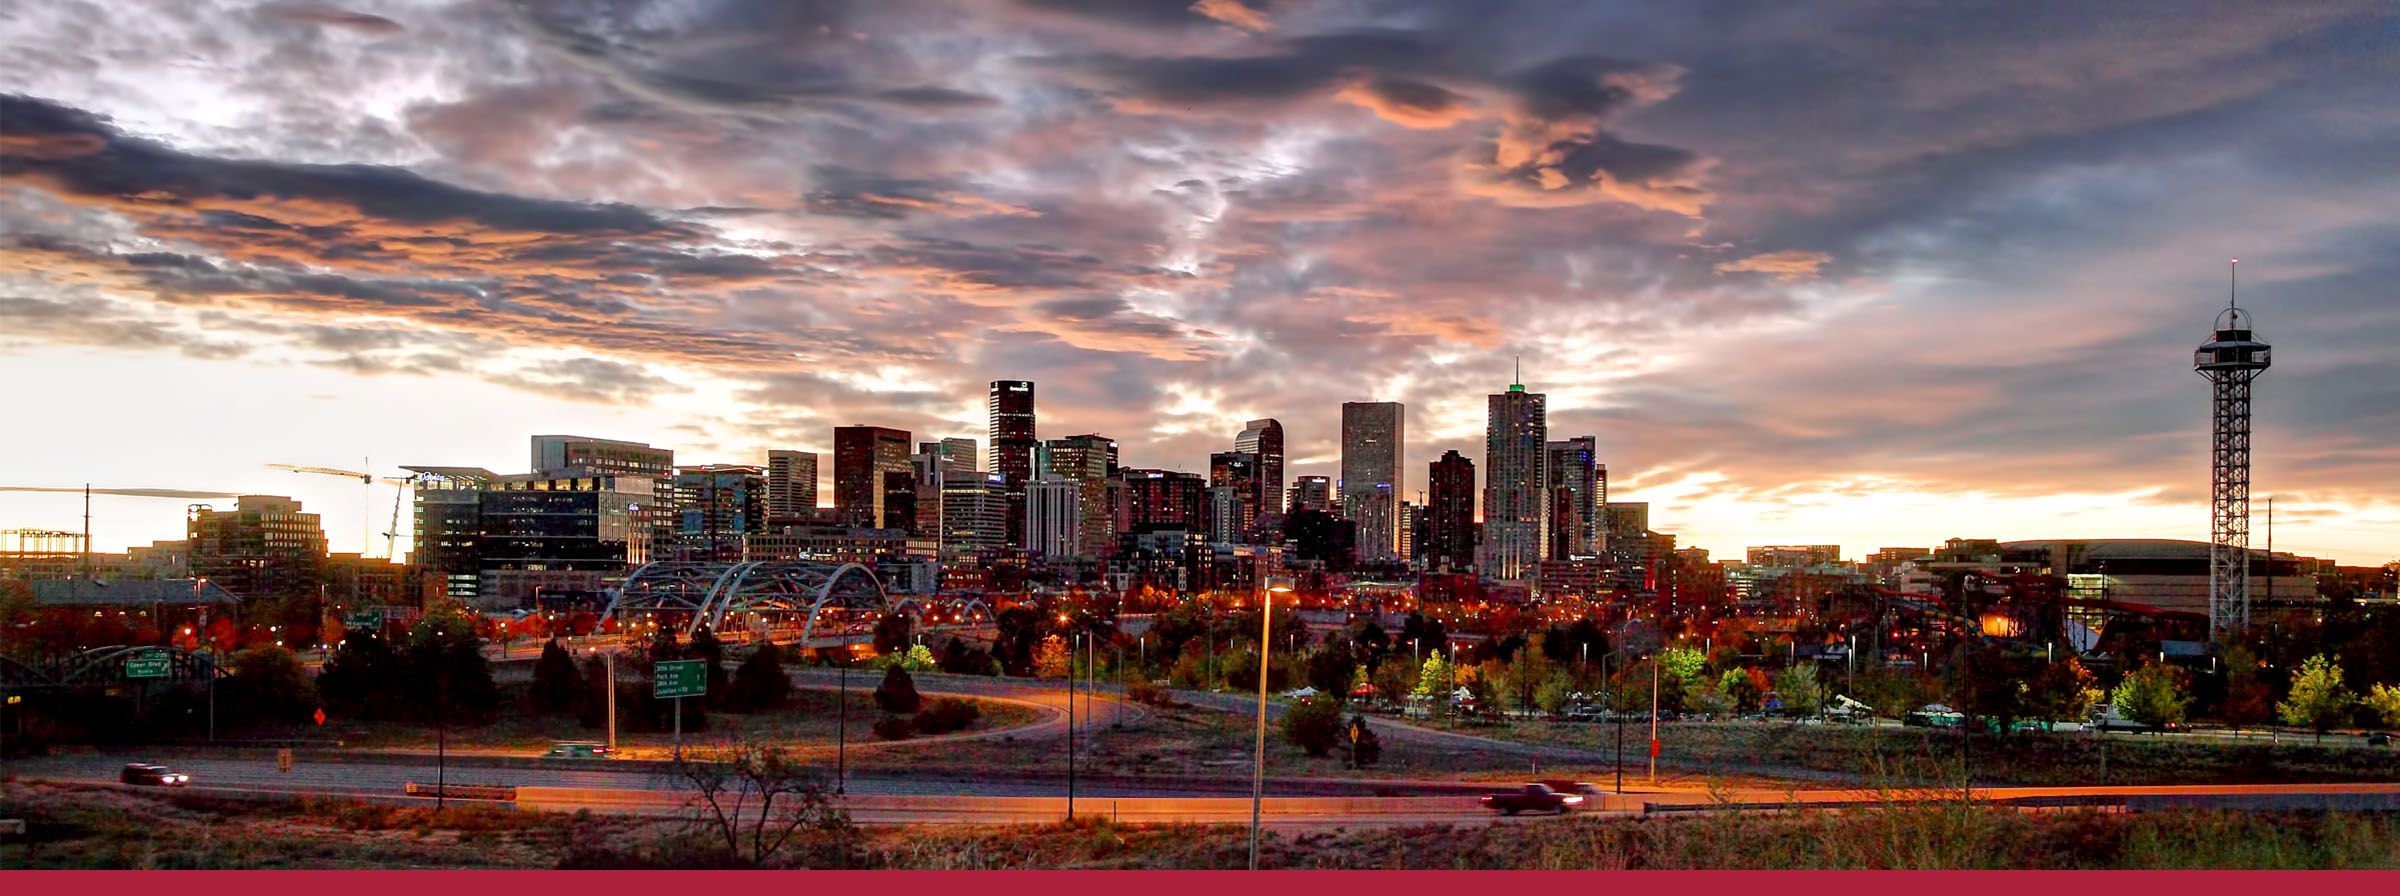
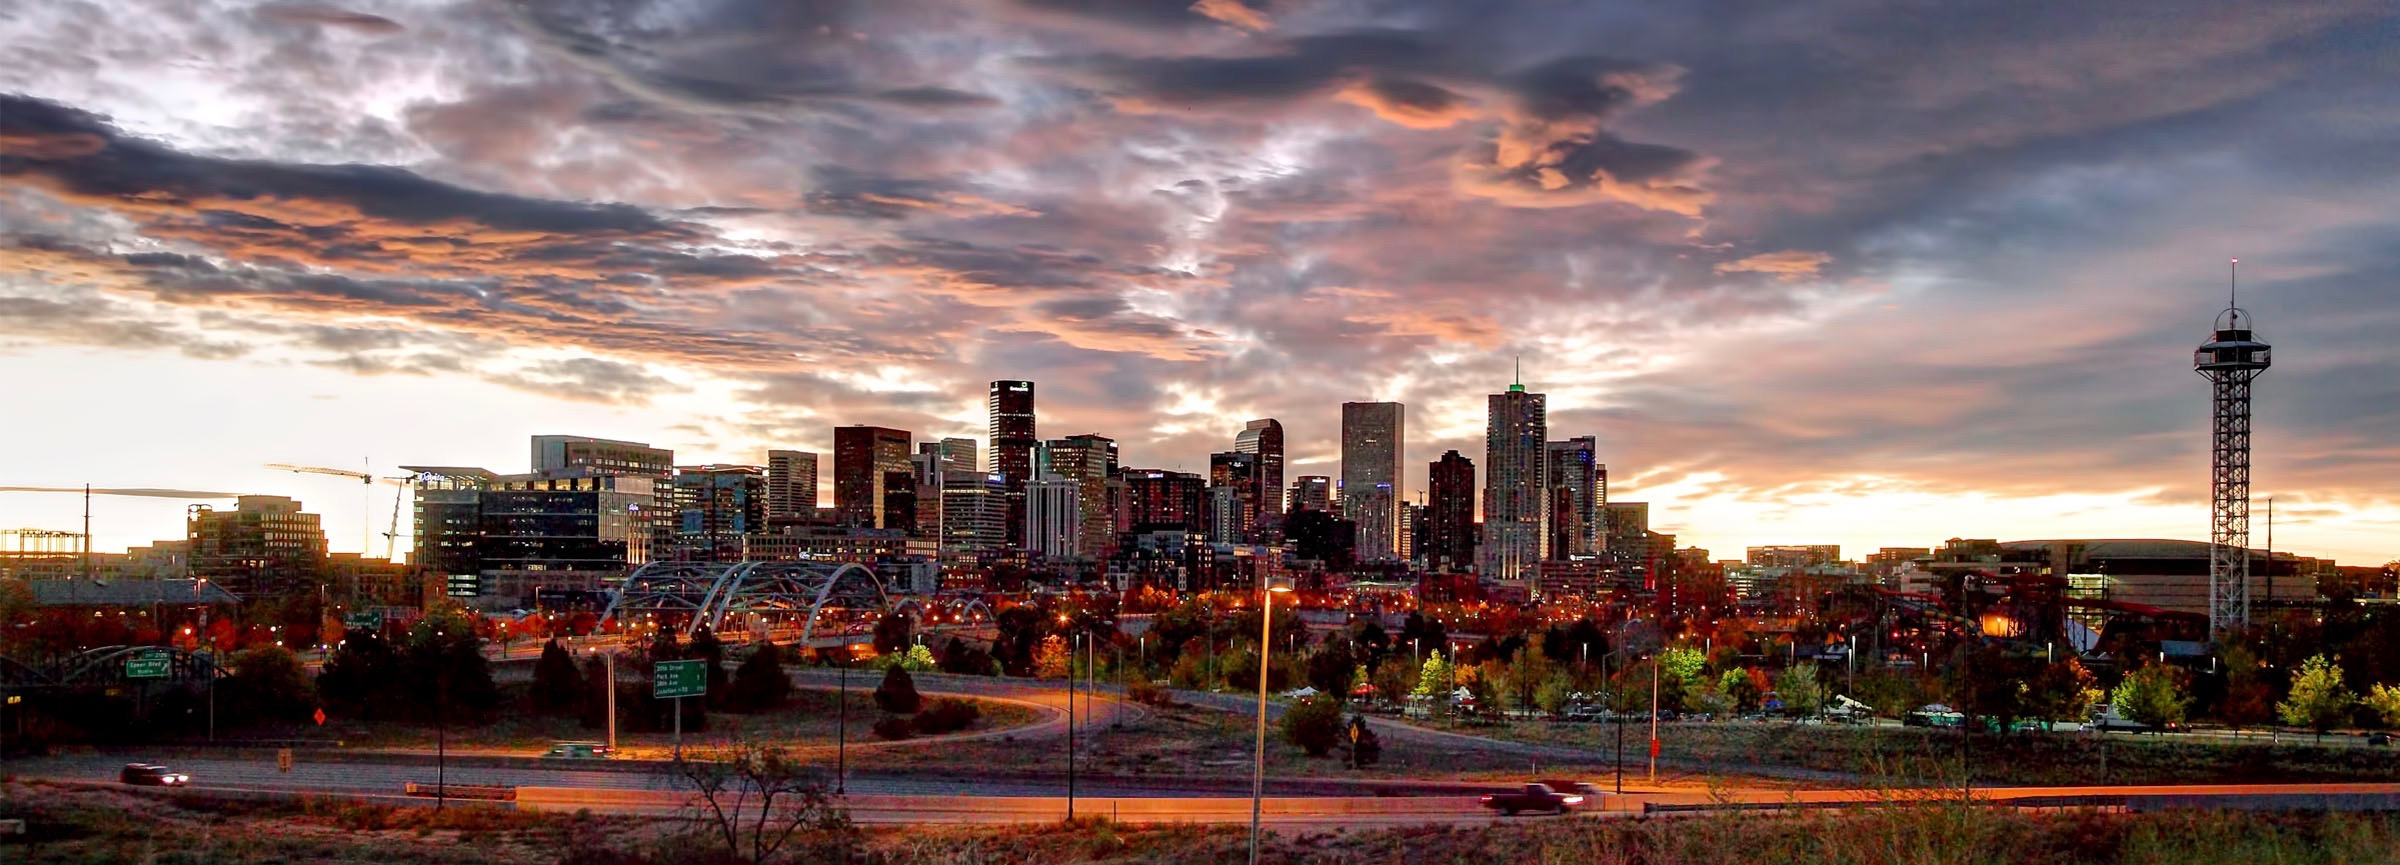
styling of trivia questions

diff --git a/assets/css/style.css b/assets/css/style.css
@@ -37,10 +37,44 @@ p {
   width: 100px;
 }
 
+#game {
+  text-align: center;
+}
+
+.heading {
+  font-size: 70px;
+  padding-top: 10px;
+}
+
 .multipleChoiceAnswer {
   display: block;
+  margin: 0 auto;
+  font-size: 20px;
+  margin-bottom: 10px;
+  background-color: rgb(238, 231, 231);
 }
 
 .answerImage {
   width: 400px;
 }
+
+#mainGame {
+  background-image: url(../images/denver_skyline.jpg);
+  background-repeat: no-repeat;
+  background-size: cover;
+  background-position: center top;
+  height: 600px;
+  padding-top: 20px;
+}
+
+#question {
+  font-size: 50px;
+  color: rgb(238, 231, 231);
+}
+
+#timer {
+  font-size: 30px;
+  color: rgb(238, 231, 231);
+}
+
+

diff --git a/index.html b/index.html
@@ -25,11 +25,16 @@
     <button id="start">Start</button>
   </div>
   <div id="game" style="display: none; ">
-    <h1>The City of Denver, Colorado</h1>
-    <h2>Trivia Game</h2>
-    <div id="question"></div>
-    <div id="multipleChoice"></div>
-    <div id="timer">Time Remaining: 15 seconds</div>
+    <h1 class="heading">The City of Denver, Colorado</h1>
+    <br>
+    <div id="mainGame">
+      <div id="question" class="mt-3"></div>
+      <div id="timer">Time Remaining: 15 seconds</div>
+      <br>
+      <br>
+      <br>
+      <div id="multipleChoice"></div>
+  </div>
   </div>
   
 </body>

diff --git a/assets/javascript/app.js b/assets/javascript/app.js
@@ -42,7 +42,7 @@ var triviaGame = {
       if (questionProperties[i].startsWith("a")) {
         var newButton = $("<button>");
         newButton.text(triviaQuestions[triviaGame.questionIndex][questionProperties[i]]);
-        newButton.addClass("multipleChoiceAnswer");
+        newButton.addClass("multipleChoiceAnswer btn btn-light");
         newButton.val(questionProperties[i])
         $("#multipleChoice").append(newButton);
       }
